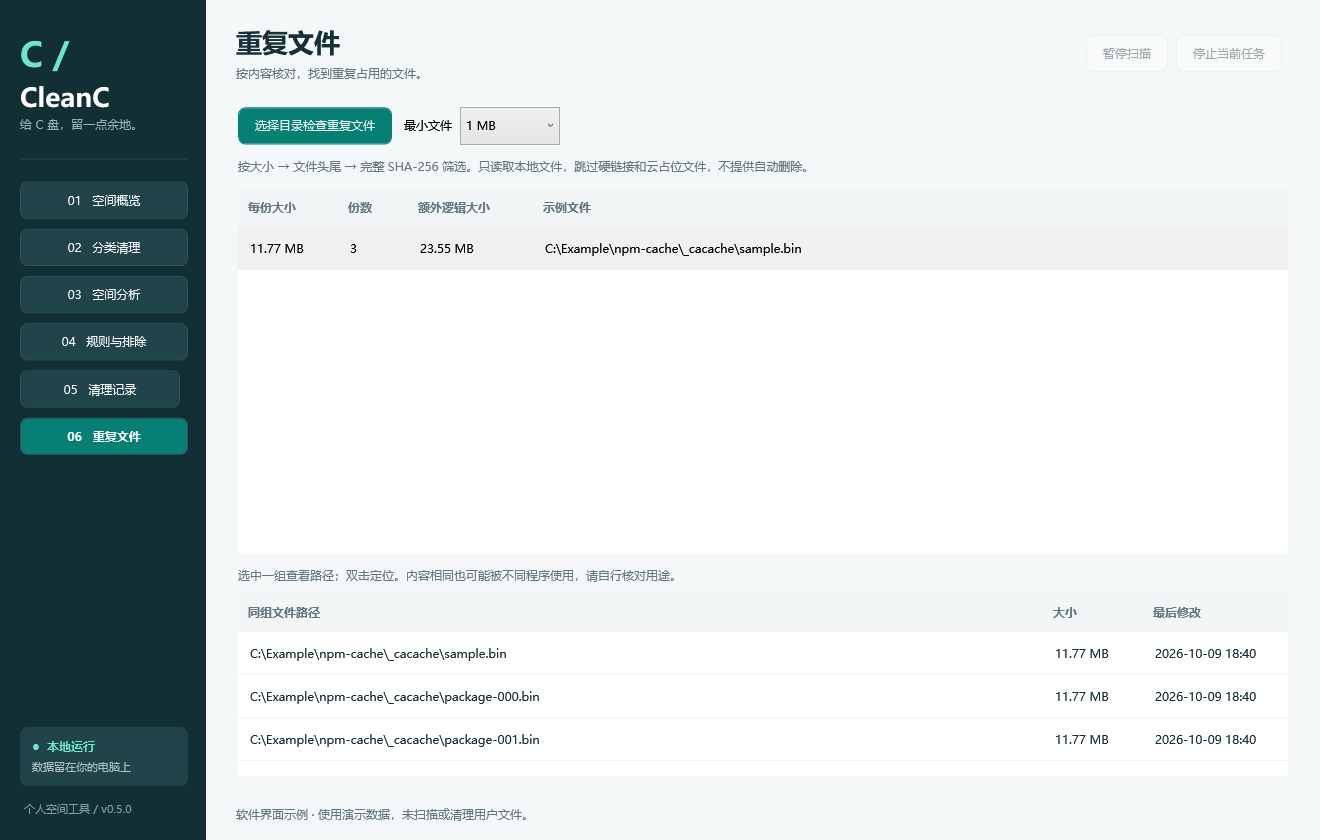
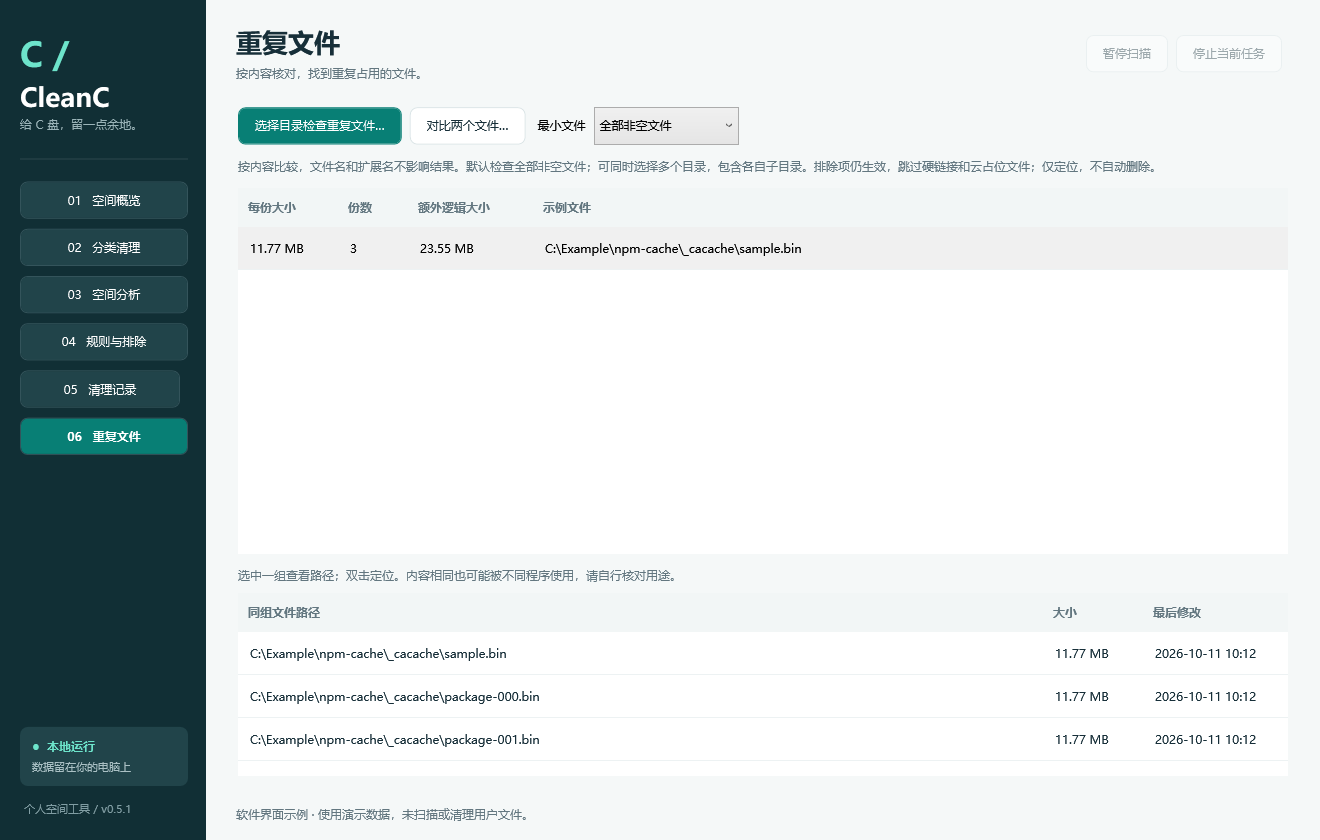
fix: 修复重复文件小文件过滤并增加两文件内容校验

diff --git a/src/CleanC.App/MainWindow.xaml b/src/CleanC.App/MainWindow.xaml
@@ -16,7 +16,7 @@
             <TextBlock Text="●  本地运行" Foreground="#6DE4CB" FontWeight="SemiBold"/>
             <TextBlock Text="数据留在你的电脑上" Foreground="#ADC3C7" FontSize="11" Margin="0,6,0,0"/>
           </StackPanel></Border>
-          <TextBlock Text="个人空间工具 / v0.5.0" Foreground="#829FA5" FontSize="11" Margin="4,16,0,0"/>
+          <TextBlock Text="个人空间工具 / v0.5.1" Foreground="#829FA5" FontSize="11" Margin="4,16,0,0"/>
         </StackPanel>
         <StackPanel>
           <Button Content="01   空间概览" Tag="0" Click="Navigate" HorizontalContentAlignment="Left" Margin="0,0,0,10" Background="#21444A" Foreground="White" BorderBrush="#34545B"/>
@@ -164,11 +164,12 @@
         <TabItem><Grid>
           <Grid.RowDefinitions><RowDefinition Height="Auto"/><RowDefinition Height="Auto"/><RowDefinition Height="2*"/><RowDefinition Height="Auto"/><RowDefinition Height="*"/></Grid.RowDefinitions>
           <WrapPanel Margin="0,0,0,14">
-            <Button Content="选择目录检查重复文件" Style="{StaticResource Primary}" Click="ChooseDuplicates_Click"/>
+            <Button Content="选择目录检查重复文件…" Style="{StaticResource Primary}" Click="ChooseDuplicates_Click"/>
+            <Button Content="对比两个文件…" Click="CompareDuplicatePair_Click"/>
             <TextBlock Text="最小文件" VerticalAlignment="Center" Margin="4,0,8,0"/>
-            <ComboBox x:Name="DuplicateMinimum" SelectedIndex="0" Width="100" VerticalContentAlignment="Center"><ComboBoxItem Content="1 MB" Tag="1048576"/><ComboBoxItem Content="10 MB" Tag="10485760"/><ComboBoxItem Content="100 MB" Tag="104857600"/></ComboBox>
+            <ComboBox x:Name="DuplicateMinimum" SelectedIndex="0" Width="145" VerticalContentAlignment="Center"><ComboBoxItem Content="全部非空文件" Tag="1"/><ComboBoxItem Content="1 MB" Tag="1048576"/><ComboBoxItem Content="10 MB" Tag="10485760"/><ComboBoxItem Content="100 MB" Tag="104857600"/></ComboBox>
           </WrapPanel>
-          <TextBlock x:Name="DuplicateDetail" Grid.Row="1" Text="按大小 → 文件头尾 → 完整 SHA-256 筛选。只读取本地文件，跳过硬链接和云占位文件，不提供自动删除。" Foreground="{StaticResource Muted}" TextWrapping="Wrap" Margin="0,0,0,14"/>
+          <TextBlock x:Name="DuplicateDetail" Grid.Row="1" Text="按内容比较，文件名和扩展名不影响结果。默认检查全部非空文件；可同时选择多个目录，包含各自子目录。排除项仍生效，跳过硬链接和云占位文件；仅定位，不自动删除。" Foreground="{StaticResource Muted}" TextWrapping="Wrap" Margin="0,0,0,14"/>
           <DataGrid x:Name="DuplicateGroupsGrid" Grid.Row="2" IsReadOnly="True" SelectionChanged="DuplicateGroup_Changed"><DataGrid.Columns>
             <DataGridTextColumn Header="每份大小" Binding="{Binding SizeText}" Width="100"/><DataGridTextColumn Header="份数" Binding="{Binding Count}" Width="70"/>
             <DataGridTextColumn Header="额外逻辑大小" Binding="{Binding ExtraText}" Width="125"/><DataGridTextColumn Header="示例文件" Binding="{Binding Example}" Width="*"/>

diff --git a/src/CleanC.Core/DuplicateFinder.cs b/src/CleanC.Core/DuplicateFinder.cs
@@ -11,20 +11,73 @@ public sealed record DuplicateGroup(string Hash, long FileSize, List<FileCandida
     public string ExtraText => Display.Bytes(ExtraLogicalBytes);
     public string Example => Files[0].Path;
 }
+public sealed record DuplicateFileVerification(string Path, long Size, string Hash);
+public sealed record DuplicatePairComparison(DuplicateFileVerification Left, DuplicateFileVerification Right)
+{
+    public bool Identical => Left.Size == Right.Size && Left.Hash == Right.Hash;
+}
 public sealed record DuplicateResult(string Root, List<DuplicateGroup> Groups, long Examined, long Skipped,
-    long BytesRead, bool Cancelled, bool Limited);
+    long BytesRead, bool Cancelled, bool Limited)
+{
+    public IReadOnlyList<string> Roots { get; init; } = [Root];
+    public long Candidates { get; init; }
+    public long BelowMinimum { get; init; }
+    public long ExcludedEntries { get; init; }
+    public IReadOnlyList<string> SkipExamples { get; init; } = [];
+}
 
 public static class DuplicateFinder
 {
+    public const long DefaultMinimumSize = 1;
+    public static DuplicatePairComparison ComparePair(string left, string right, CancellationToken token)
+    {
+        left = PathPolicy.Normalize(left); right = PathPolicy.Normalize(right);
+        if (left.Equals(right, StringComparison.OrdinalIgnoreCase)) throw new InvalidDataException("请选择两个不同的文件。");
+        var snapshots = new[] { left, right }.Select(path =>
+        {
+            PathPolicy.EnsureNoReparsePoints(path);
+            return NativeFile.Snapshot(path, Path.GetDirectoryName(path)!, "duplicate-verification");
+        }).ToArray();
+        var results = new List<DuplicateFileVerification>();
+        byte[] buffer = new byte[128 * 1024];
+        foreach (var file in snapshots)
+        {
+            token.ThrowIfCancellationRequested();
+            using var stream = NativeFile.OpenReadVerified(file);
+            using var hash = IncrementalHash.CreateHash(HashAlgorithmName.SHA256);
+            int length;
+            while ((length = stream.Read(buffer)) != 0)
+            { token.ThrowIfCancellationRequested(); hash.AppendData(buffer, 0, length); }
+            results.Add(new(file.Path, file.Size, Convert.ToHexString(hash.GetHashAndReset())));
+        }
+        // Recheck both snapshots after hashing; don't report a stale file as equal.
+        foreach (var file in snapshots)
+            if (NativeFile.Snapshot(file.Path, file.Root, file.RuleId) != file) throw new IOException("文件在校验期间发生变化，请重试。");
+        return new(results[0], results[1]);
+    }
     public static DuplicateResult Find(string root, IReadOnlyList<string> exclusions, long minimumSize,
+        IProgress<ScanProgress>? progress, CancellationToken token, ScanControl? control = null) =>
+        Find([root], exclusions, minimumSize, progress, token, control);
+
+    public static DuplicateResult Find(IReadOnlyList<string> roots, IReadOnlyList<string> exclusions, long minimumSize,
         IProgress<ScanProgress>? progress, CancellationToken token, ScanControl? control = null)
     {
         if (minimumSize < 1) throw new ArgumentOutOfRangeException(nameof(minimumSize));
-        root = PathPolicy.Normalize(root); PathPolicy.EnsureNoReparsePoints(root);
+        var normalized = roots.Select(PathPolicy.Normalize).Distinct(StringComparer.OrdinalIgnoreCase).OrderBy(p => p.Length).ToList();
+        if (normalized.Count == 0) throw new ArgumentException("请至少选择一个目录。", nameof(roots));
+        var scanRoots = new List<string>();
+        foreach (string path in normalized)
+        {
+            PathPolicy.EnsureNoReparsePoints(path);
+            if (!Directory.Exists(path)) throw new DirectoryNotFoundException(path);
+            if (!scanRoots.Any(parent => PathPolicy.Within(path, parent))) scanRoots.Add(path);
+        }
         var bySize = new Dictionary<long, List<FileCandidate>>();
         var groups = new List<DuplicateGroup>();
         var fullHashes = new Dictionary<FileCandidate, string>();
-        long examined = 0, skipped = 0, read = 0; int candidates = 0; bool cancelled = false, limited = false;
+        long examined = 0, skipped = 0, read = 0, belowMinimum = 0, excluded = 0; int candidates = 0; bool cancelled = false, limited = false;
+        var skipExamples = new List<string>();
+        void Skip(string message) { skipped++; if (skipExamples.Count < 8 && !skipExamples.Contains(message)) skipExamples.Add(message); }
         byte[] buffer = new byte[128 * 1024]; var timer = Stopwatch.StartNew();
         void Report(string message, bool force = false)
         {
@@ -72,25 +125,30 @@ public static class DuplicateFinder
                     matching.Add(file);
                     Report(sample ? "快速筛选 · 文件头尾采样" : $"完整 SHA-256 校验 · 已读取 {Display.Bytes(read)}");
                 }
-                catch (Exception e) when (Scanner.IsFileError(e)) { skipped++; }
+                catch (Exception e) when (Scanner.IsFileError(e)) { Skip(file.Path + "：" + e.Message); }
             }
             return map.Values.Where(x => x.Count > 1).ToList();
         }
         try
         {
             Report("收集文件 · 按大小分组", true);
-            foreach (string path in Scanner.Walk(root, exclusions, () => skipped++, token, control))
+            foreach (string root in scanRoots)
             {
-                examined++; Report("收集文件 · 按大小分组");
-                try
+                foreach (string path in Scanner.Walk(root, exclusions, () => Skip("部分路径不可访问，或属于链接/云占位文件。"), token, control, () => excluded++))
                 {
-                    if (new FileInfo(path).Length < minimumSize) continue;
-                    if (candidates >= Scanner.CandidateLimit) { limited = true; break; }
-                    var file = NativeFile.Snapshot(path, root, "duplicates");
-                    if (!bySize.TryGetValue(file.Size, out var sameSize)) bySize[file.Size] = sameSize = [];
-                    sameSize.Add(file); candidates++;
+                    examined++; Report("收集文件 · 按大小分组");
+                    try
+                    {
+                        if (new FileInfo(path).Length < minimumSize) { belowMinimum++; continue; }
+                        if (candidates >= Scanner.CandidateLimit) { limited = true; break; }
+                        var file = NativeFile.Snapshot(path, root, "duplicates");
+                        if (file.Size < minimumSize) { belowMinimum++; continue; }
+                        if (!bySize.TryGetValue(file.Size, out var sameSize)) bySize[file.Size] = sameSize = [];
+                        sameSize.Add(file); candidates++;
+                    }
+                    catch (Exception e) when (Scanner.IsFileError(e)) { Skip(path + "：" + e.Message); }
                 }
-                catch (Exception e) when (Scanner.IsFileError(e)) { skipped++; }
+                if (limited) break;
             }
             foreach (var sizeGroup in bySize.Values.Where(x => x.Count > 1))
             {
@@ -103,10 +161,10 @@ public static class DuplicateFinder
                         control?.Checkpoint(token); token.ThrowIfCancellationRequested();
                         try
                         {
-                            if (NativeFile.Snapshot(file.Path, root, "duplicates") == file) stable.Add(file);
-                            else skipped++;
+                            if (NativeFile.Snapshot(file.Path, file.Root, "duplicates") == file) stable.Add(file);
+                            else Skip(file.Path + "：扫描期间文件发生变化。");
                         }
-                        catch (Exception e) when (Scanner.IsFileError(e)) { skipped++; }
+                        catch (Exception e) when (Scanner.IsFileError(e)) { Skip(file.Path + "：" + e.Message); }
                     }
                     if (stable.Count > 1)
                     {
@@ -116,6 +174,7 @@ public static class DuplicateFinder
             }
         }
         catch (OperationCanceledException) { cancelled = true; }
-        return new(root, groups.OrderByDescending(x => x.ExtraLogicalBytes).ToList(), examined, skipped, read, cancelled, limited);
+        return new(string.Join("；", scanRoots), groups.OrderByDescending(x => x.ExtraLogicalBytes).ToList(), examined, skipped, read, cancelled, limited)
+        { Roots = scanRoots, Candidates = candidates, BelowMinimum = belowMinimum, ExcludedEntries = excluded, SkipExamples = skipExamples };
     }
 }

diff --git a/src/CleanC.App/MainWindow.Exploration.cs b/src/CleanC.App/MainWindow.Exploration.cs
@@ -68,22 +68,45 @@ public partial class MainWindow
     private async void ChooseDuplicates_Click(object sender, RoutedEventArgs e)
     {
         if (busy || !validSettings) return;
-        var dialog = new OpenFolderDialog { Title = "选择目录检查重复文件（会读取文件内容）" };
+        var dialog = new OpenFolderDialog { Title = "选择一个或多个目录一起检查重复文件（包含子目录）", Multiselect = true };
         if (dialog.ShowDialog(this) != true) return;
         long minimum = long.Parse((string)((ComboBoxItem)DuplicateMinimum.SelectedItem).Tag, CultureInfo.InvariantCulture);
         await RunJob(async token =>
         {
             DuplicateGroupsGrid.ItemsSource = null; DuplicateFilesGrid.ItemsSource = null; duplicates = null;
             var progress = Progress(); var excluded = preferences.Exclusions.ToArray();
-            var found = await Task.Run(() => DuplicateFinder.Find(dialog.FolderName, excluded, minimum, progress, token, scanControl));
+            var found = await Task.Run(() => DuplicateFinder.Find(dialog.FolderNames, excluded, minimum, progress, token, scanControl));
             duplicates = found; DuplicateGroupsGrid.ItemsSource = found.Groups;
-            DuplicateDetail.Text = $"{found.Root} · {found.Examined:N0} 个文件 · {found.Groups.Count:N0} 组 SHA-256 相同文件 · 额外逻辑大小 {Display.Bytes(found.Groups.Sum(g => g.ExtraLogicalBytes))} · 跳过 {found.Skipped:N0} 项 · 已读取 {Display.Bytes(found.BytesRead)}。{(found.Cancelled ? "已停止，仅显示已校验组。" : found.Limited ? "达到 10 万候选上限，结果不完整。" : "检查完成。")} 结果代表扫描时的内容，额外逻辑大小不是保证可释放空间。";
-            StatusText.Text = "重复文件检查结束。双击文件路径定位，处理前请核对用途。";
+            DuplicateDetail.Text = $"{found.Roots.Count} 个目录（含子目录） · 发现 {found.Examined:N0} 个文件 / 参与 {found.Candidates:N0} 个 · 最小大小 {(minimum == 1 ? "全部非空文件" : Display.Bytes(minimum))} · 大小过滤 {found.BelowMinimum:N0} 个 / 排除 {found.ExcludedEntries:N0} 项 / 访问、链接或变化跳过 {found.Skipped:N0} 项 · {found.Groups.Count:N0} 组内容相同文件 · 额外逻辑大小 {Display.Bytes(found.Groups.Sum(g => g.ExtraLogicalBytes))}。{(found.Cancelled ? "已停止，仅显示已校验组。" : found.Limited ? "达到 10 万候选上限，结果不完整；请缩小扫描范围。" : "检查完成。")} 文件名和扩展名不参与比较；内容相似但字节不同的文件不归为完全重复。";
+            DuplicateDetail.ToolTip = string.Join("\n", found.Roots.Concat(found.SkipExamples));
+            StatusText.Text = found.Limited ? "重复检查未覆盖全部文件：已达 10 万候选上限，请缩小范围。" : found.Cancelled ? "重复检查已停止，结果不完整。" : "重复文件检查结束。双击文件路径定位；悬停说明可查看范围和跳过示例。";
         }, pauseable: true);
     }
     private void DuplicateGroup_Changed(object sender, SelectionChangedEventArgs e)
     {
         DuplicateFilesGrid.ItemsSource = (DuplicateGroupsGrid.SelectedItem as DuplicateGroup)?.Files;
+    }
+    private async void CompareDuplicatePair_Click(object sender, RoutedEventArgs e)
+    {
+        if (busy) return;
+        var dialog = new OpenFileDialog { Title = "选择两份文件，直接校验内容（不受目录扫描最小大小和排除项过滤）", Multiselect = true };
+        if (dialog.ShowDialog(this) != true) return;
+        if (dialog.FileNames.Length != 2) { StatusText.Text = "请一次选择且仅选择两个文件进行内容校验。"; return; }
+        await RunJob(async token =>
+        {
+            duplicates = null; DuplicateGroupsGrid.ItemsSource = null; DuplicateFilesGrid.ItemsSource = null;
+            var compared = await Task.Run(() => DuplicateFinder.ComparePair(dialog.FileNames[0], dialog.FileNames[1], token), token);
+            string conclusion = compared.Identical ? "两份文件内容完全相同，改名或修改扩展名不影响判断。" :
+                compared.Left.Size != compared.Right.Size ? "两份文件的实际字节数不同，不是完全相同的文件。" : "两份文件字节数相同，但 SHA-256 不同，内容并非完全一致。";
+            string detail = conclusion + string.Concat(new[] { compared.Left, compared.Right }.Select(file =>
+                $"\n\n{file.Path}\n实际大小：{file.Size:N0} 字节\nSHA-256：{file.Hash}"));
+            DuplicateDetail.Text = conclusion + " 目录扫描默认检查全部非空文件；具体哈希与路径见校验结果窗口。";
+            StatusText.Text = "两文件内容校验完成，只读取了所选文件。";
+            var output = new TextBox { Text = detail, IsReadOnly = true, TextWrapping = TextWrapping.Wrap,
+                VerticalScrollBarVisibility = ScrollBarVisibility.Auto, Margin = new Thickness(16), Padding = new Thickness(10) };
+            new Window { Owner = this, Title = "CleanC · 文件内容校验（可选中复制）", Width = 780, Height = 430,
+                WindowStartupLocation = WindowStartupLocation.CenterOwner, Content = output }.ShowDialog();
+        });
     }
     private void DuplicateFile_Open(object sender, MouseButtonEventArgs e)
     {

diff --git a/tests/CleanC.Tests/Program.cs b/tests/CleanC.Tests/Program.cs
@@ -757,6 +757,68 @@ Test("Mandatory browser process detection blocks both preview and stale cleanup 
     Check(File.Exists(f.Recent) && File.Exists(f.Old),"Active browser did not block stale cleanup");
 });
 
+Test("Renamed small documents and renamed files over one MB are found in the same folder", () =>
+{
+    var r=Rule("renamed-customer-case"); string a=Write(r,"活动方案(1).docx",content:new string('s',14000));
+    string b=Write(r,"不同名称(3).bin",age:1,content:new string('s',14000));
+    Write(r,"说明(1).pdf",content:new string('b',2_790_000)); Write(r,"说明(2).pdf",content:new string('b',2_790_000));
+    var result=DuplicateFinder.Find(r.Paths[0],[],DuplicateFinder.DefaultMinimumSize,null,default);
+    Check(result.Groups.Count==2 && result.Candidates==4 && result.Groups.All(g=>g.Count==2),"Renamed small or large file missed");
+    Check(File.Exists(a) && File.Exists(b),"Duplicate checking modified documents");
+    Check(DuplicateFinder.Find(r.Paths[0],[],1048576,null,default).BelowMinimum==2,"Explicit one-MB filtering not reported");
+});
+Test("Multiple roots compare across directories and remove overlapping input roots", () =>
+{
+    var r=Rule("duplicate-multi");Write(r,"one/a",content:"matching contents");Write(r,"two/renamed",content:"matching contents");
+    string one=Path.Combine(r.Paths[0],"one"),two=Path.Combine(r.Paths[0],"two");
+    var result=DuplicateFinder.Find(new[]{one,two},[],1,null,default);
+    Check(result.Roots.Count==2 && result.Groups.Count==1 && result.Groups[0].Count==2,"Cross-directory match missed");
+    var overlap=DuplicateFinder.Find(new[]{one,r.Paths[0],two,r.Paths[0].ToUpperInvariant()},[],1,null,default);
+    Check(overlap.Roots.Count==1 && overlap.Candidates==2 && overlap.Groups.Single().Count==2,"Overlapping roots double-counted files");
+});
+Test("Duplicate diagnostics distinguish size filtering and explicit exclusions", () =>
+{
+    var r=Rule("duplicate-diagnostics");Write(r,"one",content:"same");string exclude=Write(r,"two",content:"same");
+    Write(r,"tiny",content:"x");Write(r,"empty",content:"");
+    var result=DuplicateFinder.Find(r.Paths[0],[exclude],2,null,default);
+    Check(result.Candidates==1 && result.BelowMinimum==2 && result.ExcludedEntries==1 && result.Skipped==0,"Filtering diagnostics inaccurate");
+    Check(result.Groups.Count==0,"Excluded file contributed a duplicate");
+});
+Test("Pair verification ignores filenames and extensions for both small and large files", () =>
+{
+    foreach(int size in new[]{14000,2_790_000})
+    {
+        var r=Rule("verify-pair-"+size);string a=Write(r,"原文件.pdf",content:new string('a',size));string b=Write(r,"重新命名.docx",age:1,content:new string('a',size));
+        var result=DuplicateFinder.ComparePair(a,b,default);
+        Check(result.Identical && result.Left.Size==size && result.Left.Hash.Length==64 && result.Left.Hash==result.Right.Hash,"Renamed pair verification failed");
+    }
+});
+Test("Pair verification distinguishes equal displayed sizes and equal real sizes with different bytes", () =>
+{
+    var r=Rule("pair-different");string a=Write(r,"one.pdf",content:new string('x',10000)+"A"+new string('x',10000));
+    string b=Write(r,"two.pdf",content:new string('x',10000)+"B"+new string('x',10000));
+    var sameSize=DuplicateFinder.ComparePair(a,b,default);
+    Check(!sameSize.Identical && sameSize.Left.Size==sameSize.Right.Size && sameSize.Left.Hash!=sameSize.Right.Hash,"Equal size treated as equal content");
+    File.AppendAllText(b,"x");var roundedSize=DuplicateFinder.ComparePair(a,b,default);
+    Check(!roundedSize.Identical && roundedSize.Left.Size!=roundedSize.Right.Size,"Byte-size difference hidden");
+});
+Test("Pair verification reports empty-file equality while folder default excludes empty files", () =>
+{
+    var r=Rule("pair-empty");string a=Write(r,"empty1",content:""),b=Write(r,"empty2",content:"");
+    Check(DuplicateFinder.ComparePair(a,b,default).Identical,"Empty pair hashing failed");
+    Check(DuplicateFinder.Find(r.Paths[0],[],1,null,default).BelowMinimum==2,"Empty scan entries not explained");
+});
+Test("Pair verification rejects same path, cancellation and locked files without modifying them", () =>
+{
+    var r=Rule("pair-guards");string a=Write(r,"one"),b=Write(r,"two");Reject(()=>DuplicateFinder.ComparePair(a,a,default));
+    using var cts=new CancellationTokenSource();cts.Cancel();bool cancelled=false;
+    try{DuplicateFinder.ComparePair(a,b,cts.Token);}catch(OperationCanceledException){cancelled=true;}
+    Check(cancelled,"Pair cancellation ignored");
+    using var handle=new FileStream(b,FileMode.Open,FileAccess.Read,FileShare.None);bool locked=false;
+    try{DuplicateFinder.ComparePair(a,b,default);}catch(Exception e)when(Scanner.IsFileError(e)){locked=true;}
+    Check(locked && File.Exists(a) && File.Exists(b),"Pair verifier forced access or modified files");
+});
+
 Console.WriteLine($"\n{passed} passed; {failed} failed. Fixture: {fixture}");
 return failed == 0 ? 0 : 1;
 

diff --git a/src/CleanC.Core/Scanner.cs b/src/CleanC.Core/Scanner.cs
@@ -75,13 +75,13 @@ public sealed class Scanner(PathPolicy policy)
     internal static bool IsFileError(Exception e) => e is IOException or InvalidDataException or UnauthorizedAccessException or
         System.ComponentModel.Win32Exception or System.Security.SecurityException;
 
-    internal static IEnumerable<string> Walk(string root, IReadOnlyList<string> exclusions, Action skipped, CancellationToken token, ScanControl? control = null)
+    internal static IEnumerable<string> Walk(string root, IReadOnlyList<string> exclusions, Action skipped, CancellationToken token, ScanControl? control = null, Action? excluded = null)
     {
         var dirs = new Stack<string>(); dirs.Push(root);
         while (dirs.TryPop(out string? dir))
         {
             control?.Checkpoint(token); token.ThrowIfCancellationRequested();
-            if (PathPolicy.IsExcluded(dir, exclusions)) continue;
+            if (PathPolicy.IsExcluded(dir, exclusions)) { excluded?.Invoke(); continue; }
             IEnumerator<string> entries;
             try
             {
@@ -96,7 +96,7 @@ public sealed class Scanner(PathPolicy policy)
                 string path;
                 try { if (!entries.MoveNext()) break; path = entries.Current; }
                 catch (Exception e) when (IsFileError(e)) { skipped(); break; }
-                if (PathPolicy.IsExcluded(path, exclusions)) continue;
+                if (PathPolicy.IsExcluded(path, exclusions)) { excluded?.Invoke(); continue; }
                 FileAttributes attributes;
                 try { attributes = File.GetAttributes(path); }
                 catch (Exception e) when (IsFileError(e)) { skipped(); continue; }

diff --git a/tests/CleanC.UiTests/Program.cs b/tests/CleanC.UiTests/Program.cs
@@ -35,6 +35,7 @@ internal static class Program
         if (pages.Items.Count != 6) errors.Add("Expected 6 pages without a dedicated installer page");
         if (((TextBlock)window.FindName("RuleCount")).Text != "19") errors.Add("Rules did not load or migrate");
         if (((Button)window.FindName("CleanButton")).IsEnabled) errors.Add("Cleaning enabled without preview");
+        if ((string)((ComboBoxItem)((ComboBox)window.FindName("DuplicateMinimum")).SelectedItem).Tag != "1") errors.Add("Duplicate scan does not include renamed small files by default");
         if (((CheckBox)window.FindName("IncludeRecentBrowserCaches")).IsChecked == true) errors.Add("Recent browser mode enabled by default");
         var sampleRule = new CleanupRule { Id = "sample", Name = "npm 下载缓存", Category = "开发缓存", MinAgeDays = 7,
             Description = "界面渲染测试样本，不是真实扫描结果。", Impact = "下次安装依赖可能需要联网。" };

diff --git a/CHANGELOG.md b/CHANGELOG.md
@@ -1,5 +1,12 @@
 # CleanC 更新记录
 
+## 0.5.1
+
+- 重复文件默认阈值从 1 MB 改为全部非空文件，避免十几 KB 文档及其他小文件被直接过滤；仍按内容校验，与文件名、扩展名和日期无关。
+- 支持同时选择多个目录对比，递归包含子目录，自动合并重叠的扫描根目录；增加候选、大小过滤、排除和跳过统计及示例，达到上限或取消时明确标记不完整。
+- 新增“对比两个文件”，直接展示实际字节数和完整 SHA-256，可选中复制。只读校验，不增加删除操作。
+- 新增 7 项回归测试，共 93 项：覆盖改名的 14 KB 与约 2.7 MB 文件、跨目录、过滤原因、空文件、同大小不同内容、锁和取消；更新界面截图。
+
 ## 0.5.0
 
 - 根据本机 360 清理前后的逐文件对比，新增 QQ、微信、腾讯会议历史诊断日志、360 极速浏览器 X 缓存和 Chrome 着色器缓存五条规则，共 19 条。沿用统一分类清理，不新增软件专用页面。
